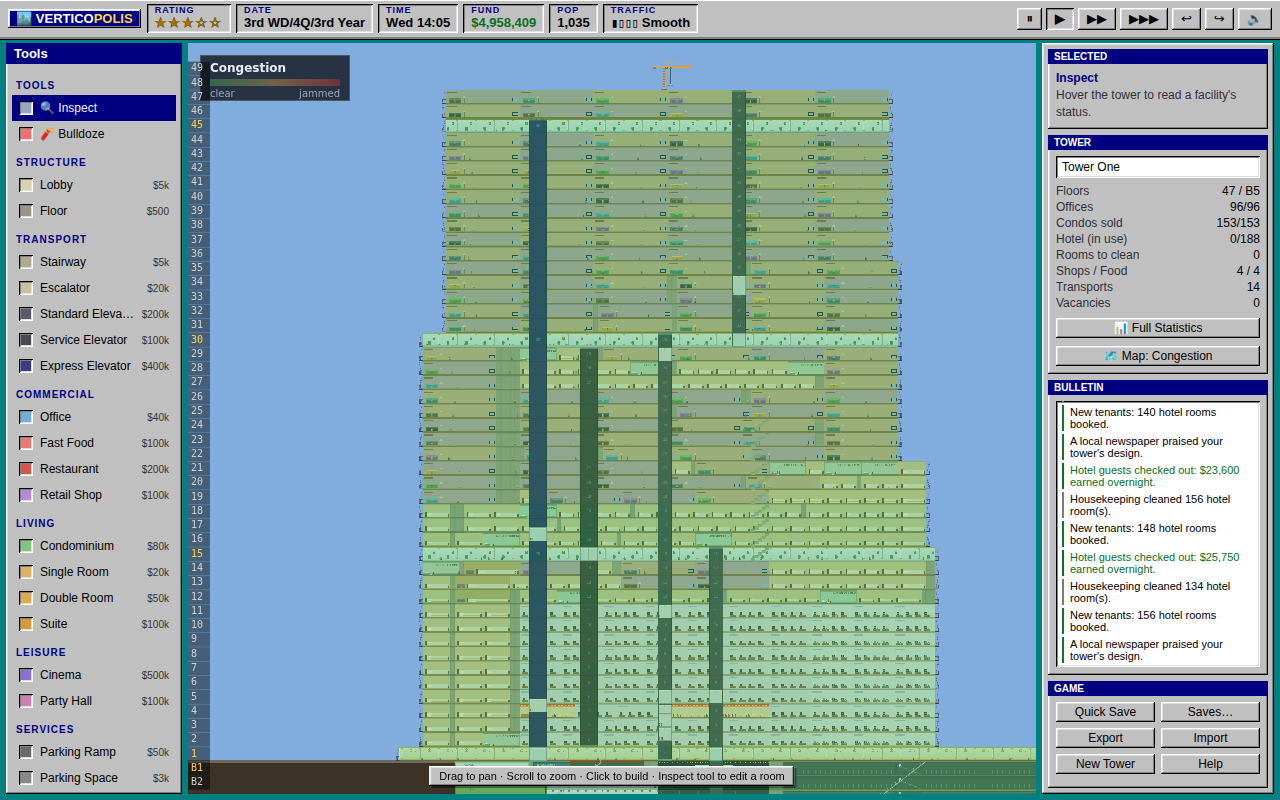
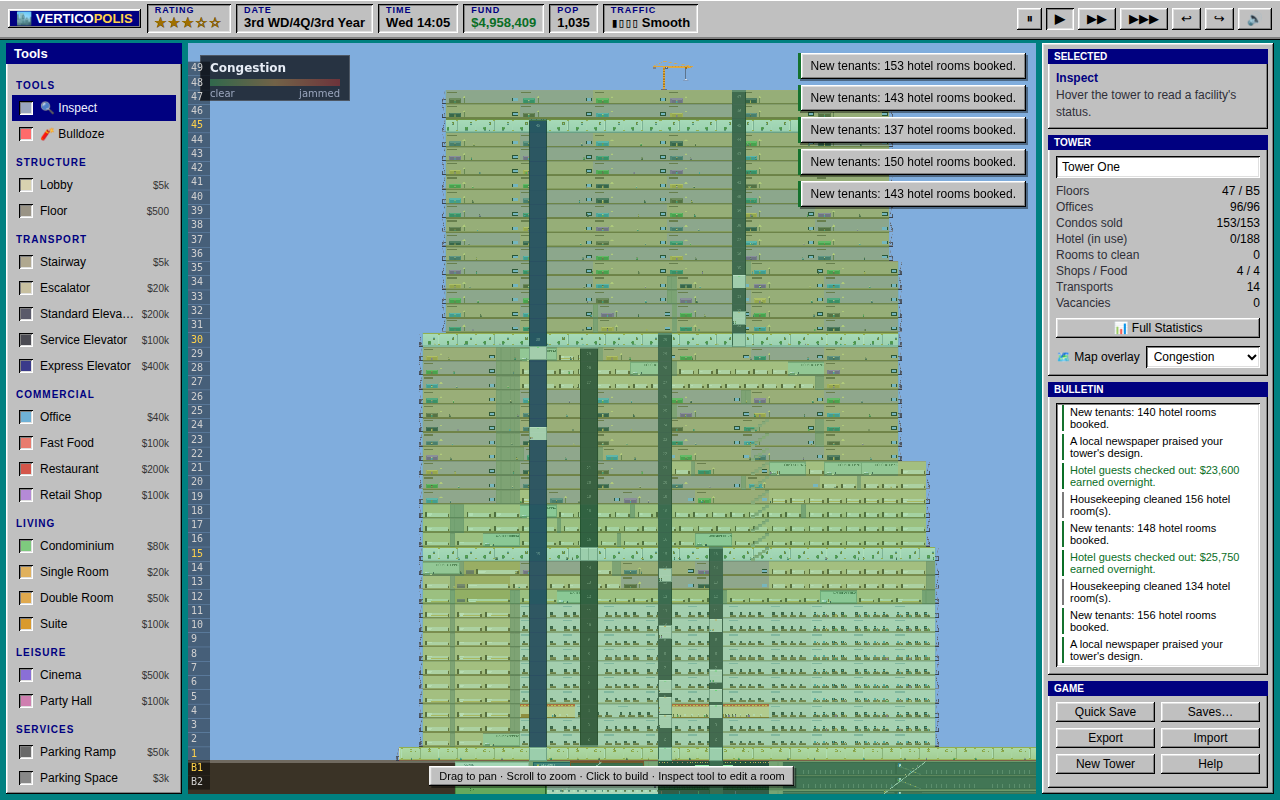
ui: make the stats overlay a labeled dropdown instead of a cycle button
The overlay was a single button that cycled Off → Congestion → Occupancy →
Satisfaction, which hid the choices (you couldn't see the modes or jump to one).
Replace it with a "🗺 Map overlay" <select> in the Tower panel so every mode is
visible and directly selectable. Controller now setOverlay(value) instead of
cycling; unknown values fall back to off. Screenshots refreshed to show the
dropdown.

Claude-Session: https://claude.ai/code/session_01EnCXnMHSP3prMNUE7sGkwe

diff --git a/src/main.ts b/src/main.ts
@@ -4,7 +4,8 @@ import { FACILITIES, GRID, facilityFloors, isFixedSpanTransport, maxCarsFor } fr
 import { rentConfig } from "./engine/econConfig";
 import type { FacilityKind, Transport, Unit } from "./engine/types";
 import { isOperational } from "./engine/types";
-import { TowerEngine, HEATMAP_MODES, HEATMAP_LABELS, type Picked } from "./render/excalibur/TowerEngine";
+import { TowerEngine, HEATMAP_MODES, type Picked } from "./render/excalibur/TowerEngine";
+import type { HeatmapMode } from "./engine/Simulation";
 import { AudioEngine } from "./audio/Audio";
 import { SaveGame } from "./storage/SaveGame";
 import { loadPrefs, savePrefs, reducedMotionActive, type Prefs } from "./storage/Prefs";
@@ -200,7 +201,7 @@ class GameApp {
       },
       onRenameTower: (name) => (this.sim.tower.towerName = name),
       onShowStats: () => this.ui.showStats(buildStatsHtml(this.sim)),
-      onCycleOverlay: () => this.cycleOverlay(),
+      onSetOverlay: (mode) => this.setOverlay(mode),
       // Latches the dismissal so the next hover pick over the same facility
       // doesn't instantly re-open the card the user just closed.
       onInspectorClose: () => this.inspector.dismiss(),
@@ -580,15 +581,11 @@ class GameApp {
     return this.tool.type === "build" && !!FACILITIES[this.tool.kind].transport;
   }
 
-  /** Advance the colored stats overlay: Off → Congestion → Occupancy →
-   *  Satisfaction → Off. Returns the label for the newly-active mode so the UI
-   *  button can show it. */
-  private cycleOverlay(): string {
-    const cur = this.engine.overlayMode;
-    const idx = cur ? HEATMAP_MODES.indexOf(cur) : -1;
-    const next = HEATMAP_MODES[idx + 1] ?? null; // past the last mode → off
-    this.engine.overlayMode = next;
-    return next ? HEATMAP_LABELS[next].title : "Off";
+  /** Set the colored stats overlay from the picker value ("" = off). An
+   *  unrecognized value falls back to off, so a stale/forged value can't push a
+   *  bad mode into the renderer. */
+  private setOverlay(mode: string): void {
+    this.engine.overlayMode = (HEATMAP_MODES as readonly string[]).includes(mode) ? (mode as HeatmapMode) : null;
   }
 
   private updateBuildPreview(tile: number, floor: number): void {

diff --git a/src/ui/UI.ts b/src/ui/UI.ts
@@ -35,9 +35,9 @@ export interface UICallbacks {
   onReplayOnboarding(): void;
   onRenameTower(name: string): void;
   onShowStats(): void;
-  /** Cycle the colored stats overlay to its next mode; returns the button label
-   *  for the newly-active mode (e.g. "Congestion", or "Off"). */
-  onCycleOverlay(): string;
+  /** Set the colored stats overlay to a mode by its select value ("congestion"
+   *  / "occupancy" / "satisfaction", or "" for off). */
+  onSetOverlay(mode: string): void;
   onShowSaves(): void;
   /** The inspector card's ✕ was clicked — dismiss it and latch it closed. */
   onInspectorClose(): void;
@@ -197,9 +197,8 @@ export class UI {
     document.getElementById("btn-import")!.addEventListener("click", () => this.openImport());
     document.getElementById("btn-help")!.addEventListener("click", () => this.showHelp());
     document.getElementById("btn-stats")!.addEventListener("click", () => this.cb.onShowStats());
-    document.getElementById("btn-overlay")?.addEventListener("click", (e) => {
-      const label = this.cb.onCycleOverlay();
-      (e.currentTarget as HTMLButtonElement).textContent = `🗺 Map: ${label}`;
+    document.getElementById("overlay-mode")?.addEventListener("change", (e) => {
+      this.cb.onSetOverlay((e.currentTarget as HTMLSelectElement).value);
     });
 
     this.el.towerName.addEventListener("change", () => {

diff --git a/src/index.html b/src/index.html
@@ -83,7 +83,15 @@
             <input id="tower-name" class="name-input field" maxlength="28" />
             <div id="tower-stats" class="kv"></div>
             <button id="btn-stats" class="wide-btn btn">📊 Full Statistics</button>
-            <button id="btn-overlay" class="wide-btn btn" title="Tint floors by a live metric — cycle Congestion, Occupancy, Satisfaction, Off">🗺 Map: Off</button>
+            <label class="overlay-picker" title="Tint every floor by a live metric, like the original's evaluation maps">
+              <span>🗺 Map overlay</span>
+              <select id="overlay-mode" class="field">
+                <option value="">Off</option>
+                <option value="congestion">Congestion</option>
+                <option value="occupancy">Occupancy</option>
+                <option value="satisfaction">Satisfaction</option>
+              </select>
+            </label>
           </div>
           <div class="panel grow win docked">
             <h3>Bulletin</h3>

diff --git a/src/styles.css b/src/styles.css
@@ -612,6 +612,24 @@ html.reduce-motion *::after {
   width: 100%;
   margin-top: 8px; /* padding stays the .btn default (3px 9px), as shipped */
 }
+/* Stats-overlay picker: a labeled dropdown so every map mode is visible and
+ *  directly selectable (no hidden cycle). */
+.overlay-picker {
+  display: flex;
+  align-items: center;
+  gap: 6px;
+  margin-top: 8px;
+  font-size: 12px;
+  color: var(--r-ink);
+}
+.overlay-picker > span {
+  white-space: nowrap;
+}
+.overlay-picker .field {
+  flex: 1;
+  padding: 3px 4px;
+  font-size: 12px;
+}
 #tower-stats {
   font-size: 12px;
   gap: 2px 8px;

diff --git a/src/tests/uiDialogs.test.ts b/src/tests/uiDialogs.test.ts
@@ -81,7 +81,7 @@ function makeUI(overrides: Partial<UICallbacks> = {}): { ui: UI; cb: UICallbacks
     onReplayOnboarding: vi.fn(),
     onRenameTower: vi.fn(),
     onShowStats: vi.fn(),
-    onCycleOverlay: vi.fn(() => "Congestion"),
+    onSetOverlay: vi.fn(),
     onShowSaves: vi.fn(),
     onInspectorClose: vi.fn(),
     onSaveSlot: vi.fn(),

diff --git a/docs/screenshots/features/README.md b/docs/screenshots/features/README.md
@@ -23,3 +23,4 @@ hotel rooms, a cinema, shops, food, 5 elevators) after warming up a quarter.
 | `overlay-congestion.png` | The colored stats overlay in **Congestion** mode — floors tinted green (clear) → red (jammed) with a legend. |
 | `overlay-occupancy.png` | **Occupancy** mode — green where fully leased (offices/condos), red/amber on the hotel floors that sit empty at midday. |
 | `overlay-satisfaction.png` | **Satisfaction** mode — green for happy tenants; floors with no one present are left untinted (no happiness to judge). |
+| `overlay-picker-ui.png` | The **🗺 Map overlay** dropdown in the Tower panel (below Full Statistics) — every mode is directly selectable. |
